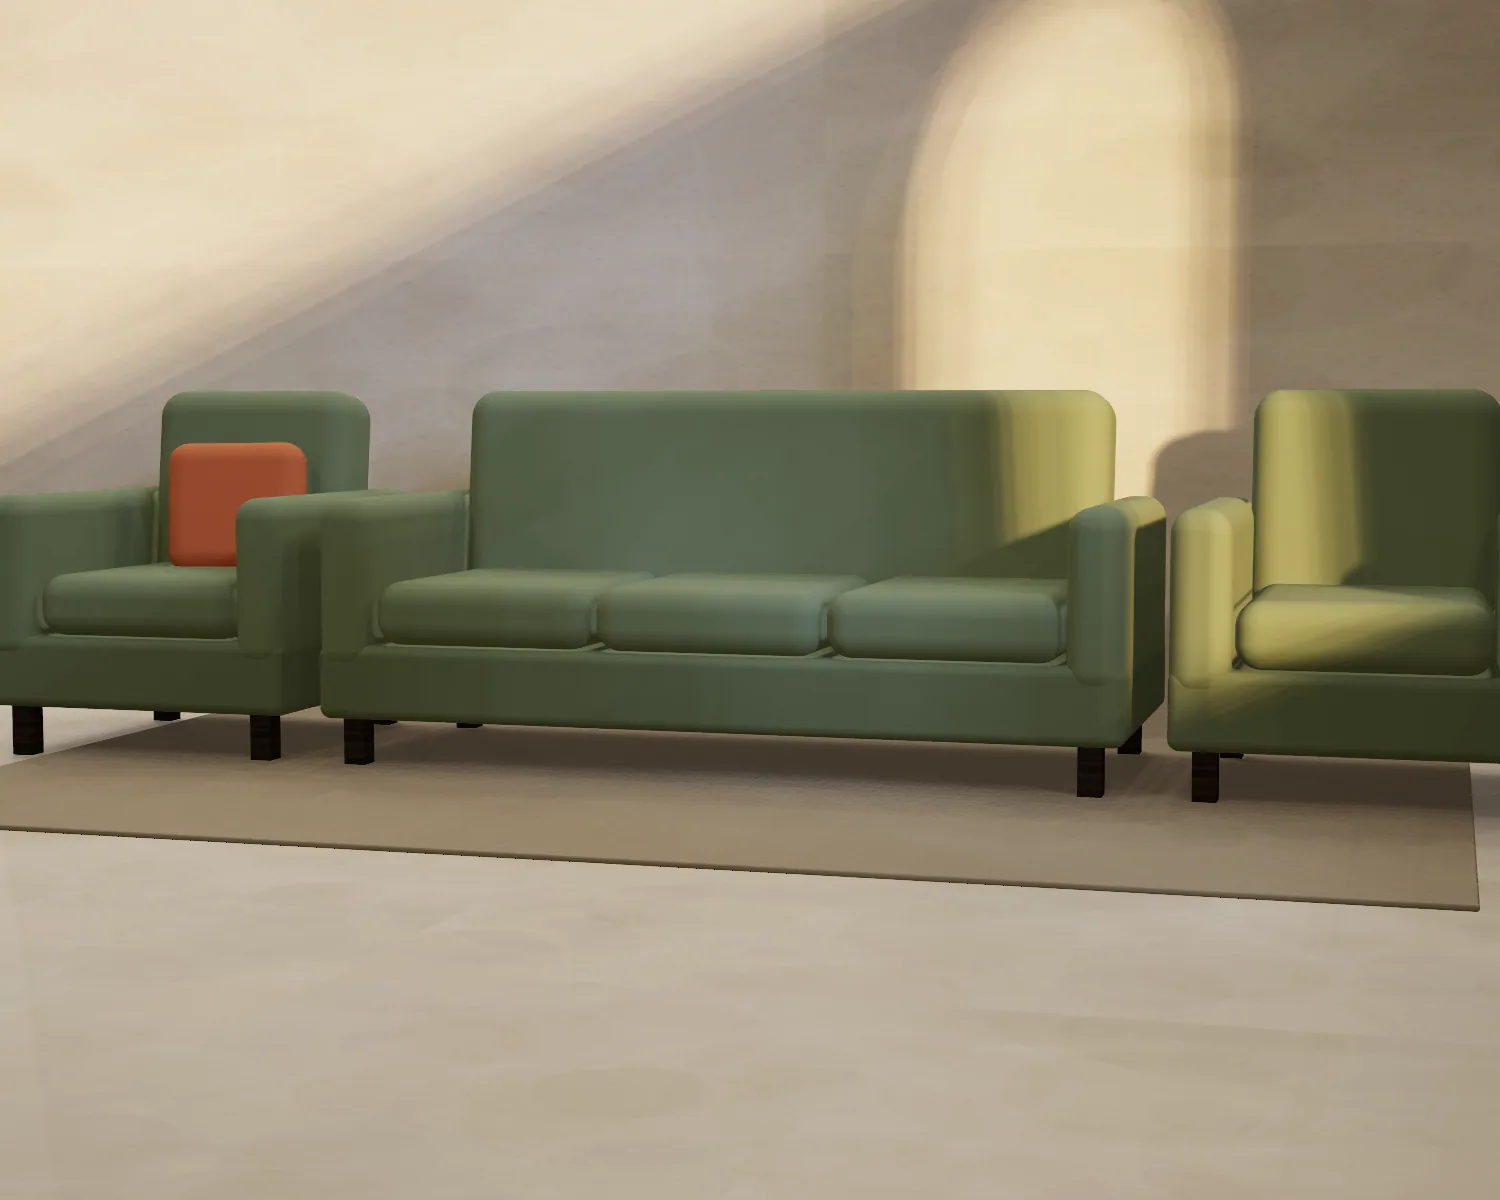
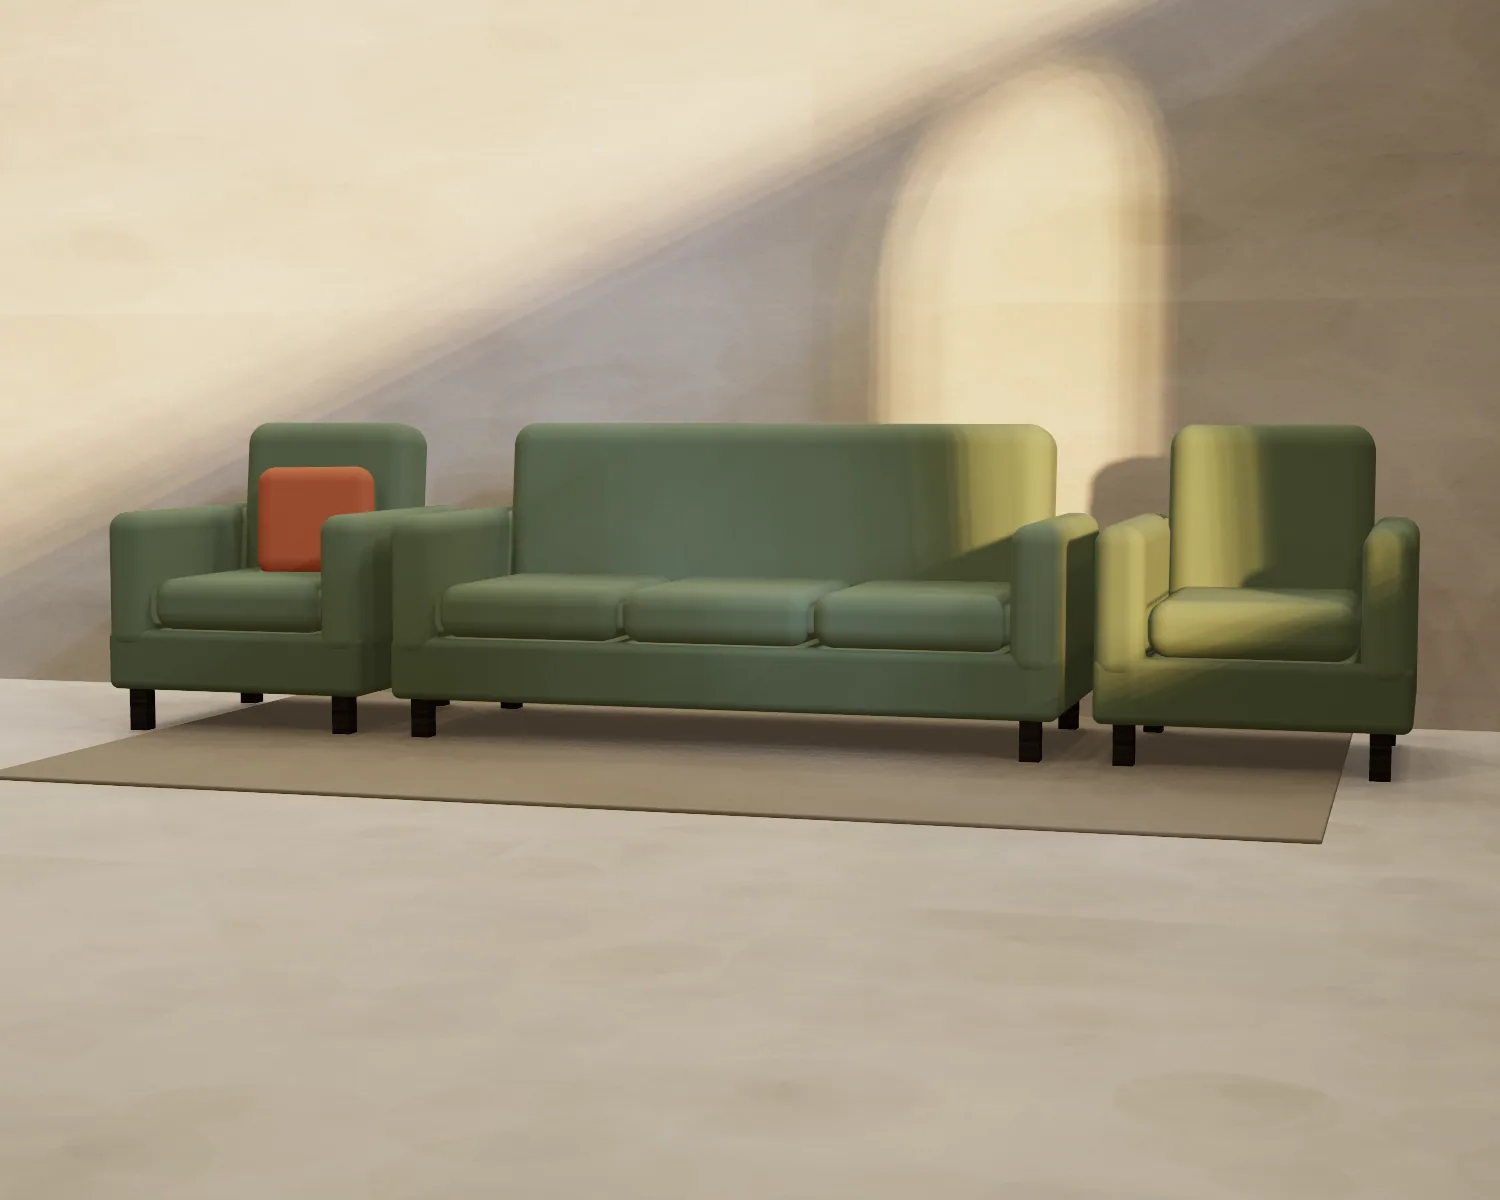
Final design polish, wider sofa-set renders, before/after screenshots and docs
Claude-Session: https://claude.ai/code/session_01PJh519q37Z2vCJsUEiScy9

diff --git a/src/app/error.tsx b/src/app/error.tsx
@@ -9,7 +9,7 @@ export default function ErrorPage({ reset }: { error: Error; reset: () => void }
         <p className="lede">Please try again. If it keeps happening, call or message the showroom and we&apos;ll help directly.</p>
         <div className="row" style={{ marginTop: 28 }}>
           <button className="btn" onClick={() => reset()}>Try again</button>
-          <a className="btn ghost" href="/">Home</a>
+          <button className="btn ghost" onClick={() => window.location.assign("/")}>Home</button>
         </div>
       </div>
     </main>

diff --git a/src/app/design.css b/src/app/design.css
@@ -259,3 +259,4 @@ h3 { font-size: clamp(1.3rem, 1.9vw, 1.65rem); letter-spacing: -0.02em; }
 
 .hero-photo .ill-tag, .hero-photo .hero-note { max-width: calc(100% - var(--gutter) * 2); right: auto; }
 .dark .eyebrow::before, .making .eyebrow::before, .mk-hero .eyebrow::before { background: var(--brass-soft); }
+.band .ill-tag { left: auto; right: 12px; }

diff --git a/docs/design/README.md b/docs/design/README.md
@@ -42,3 +42,12 @@ node tools/render/render.cjs --only hero,products/panel-bed
 node tools/render/render.cjs --scale=0.5      # quick low-res check
 ```
 Jobs live in `tools/render/jobs.js`, furniture and materials in `tools/render/kit.js`. Output goes to `public/renders/` as WebP (full + `-sm` 800px for cards). A full run takes roughly an hour on a 4-core CPU without a GPU.
+
+## Before / after screenshots
+
+Same pages, same viewports (desktop 1440×900, mobile 390×844): `docs/design/before/*.png` and `docs/design/after/*.png`
+(`home`, `shop`, `category-beds`, `product`, `cfg-bed`, `cfg-sofa`, `cfg-sofa-cum-bed`, `cfg-dining`, `showroom`, `making`, `design-hub`, each with a `desktop-` and `mobile-` prefix).
+The "after" set was captured after scrolling the page so lazy-loaded images are present.
+
+## Verified in this phase
+Type-check, lint, 22 unit tests and the production build pass; `e2e/configurators.cjs`, `e2e/claims.cjs` and `e2e/admin.cjs` all pass against the production server with a fresh database.
